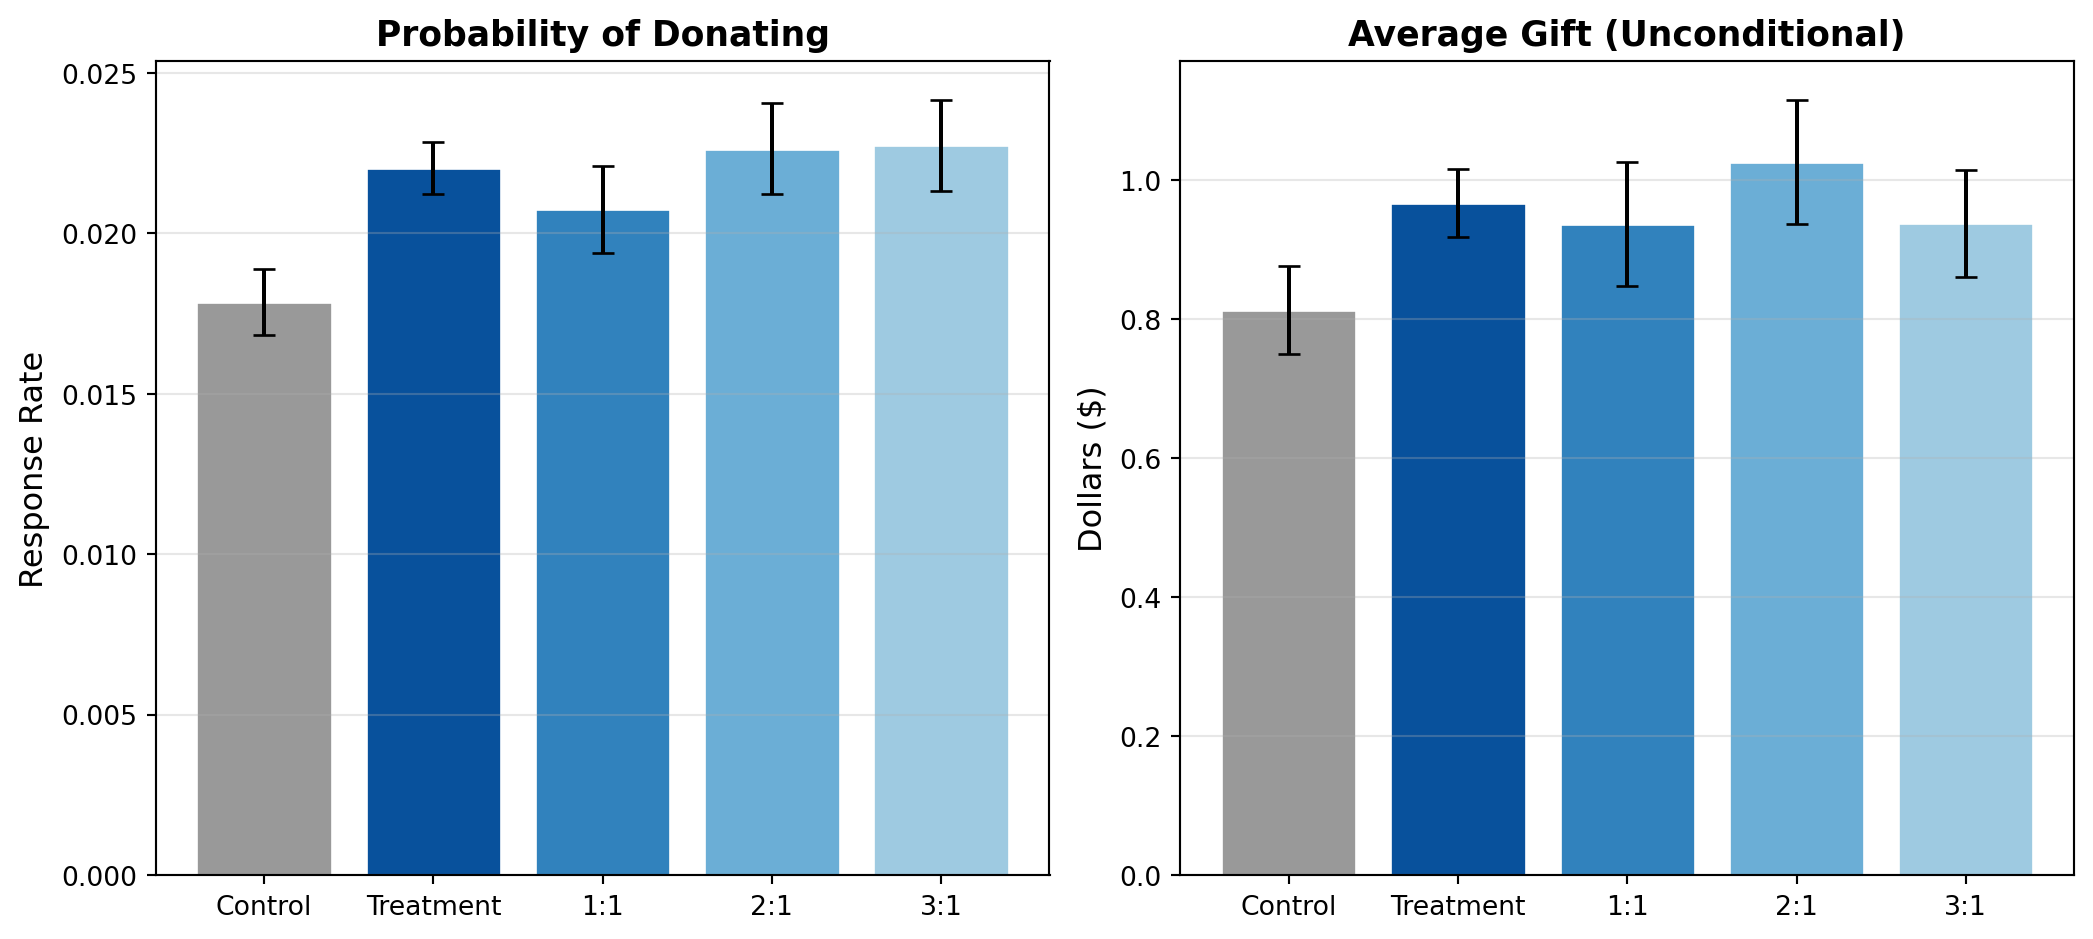
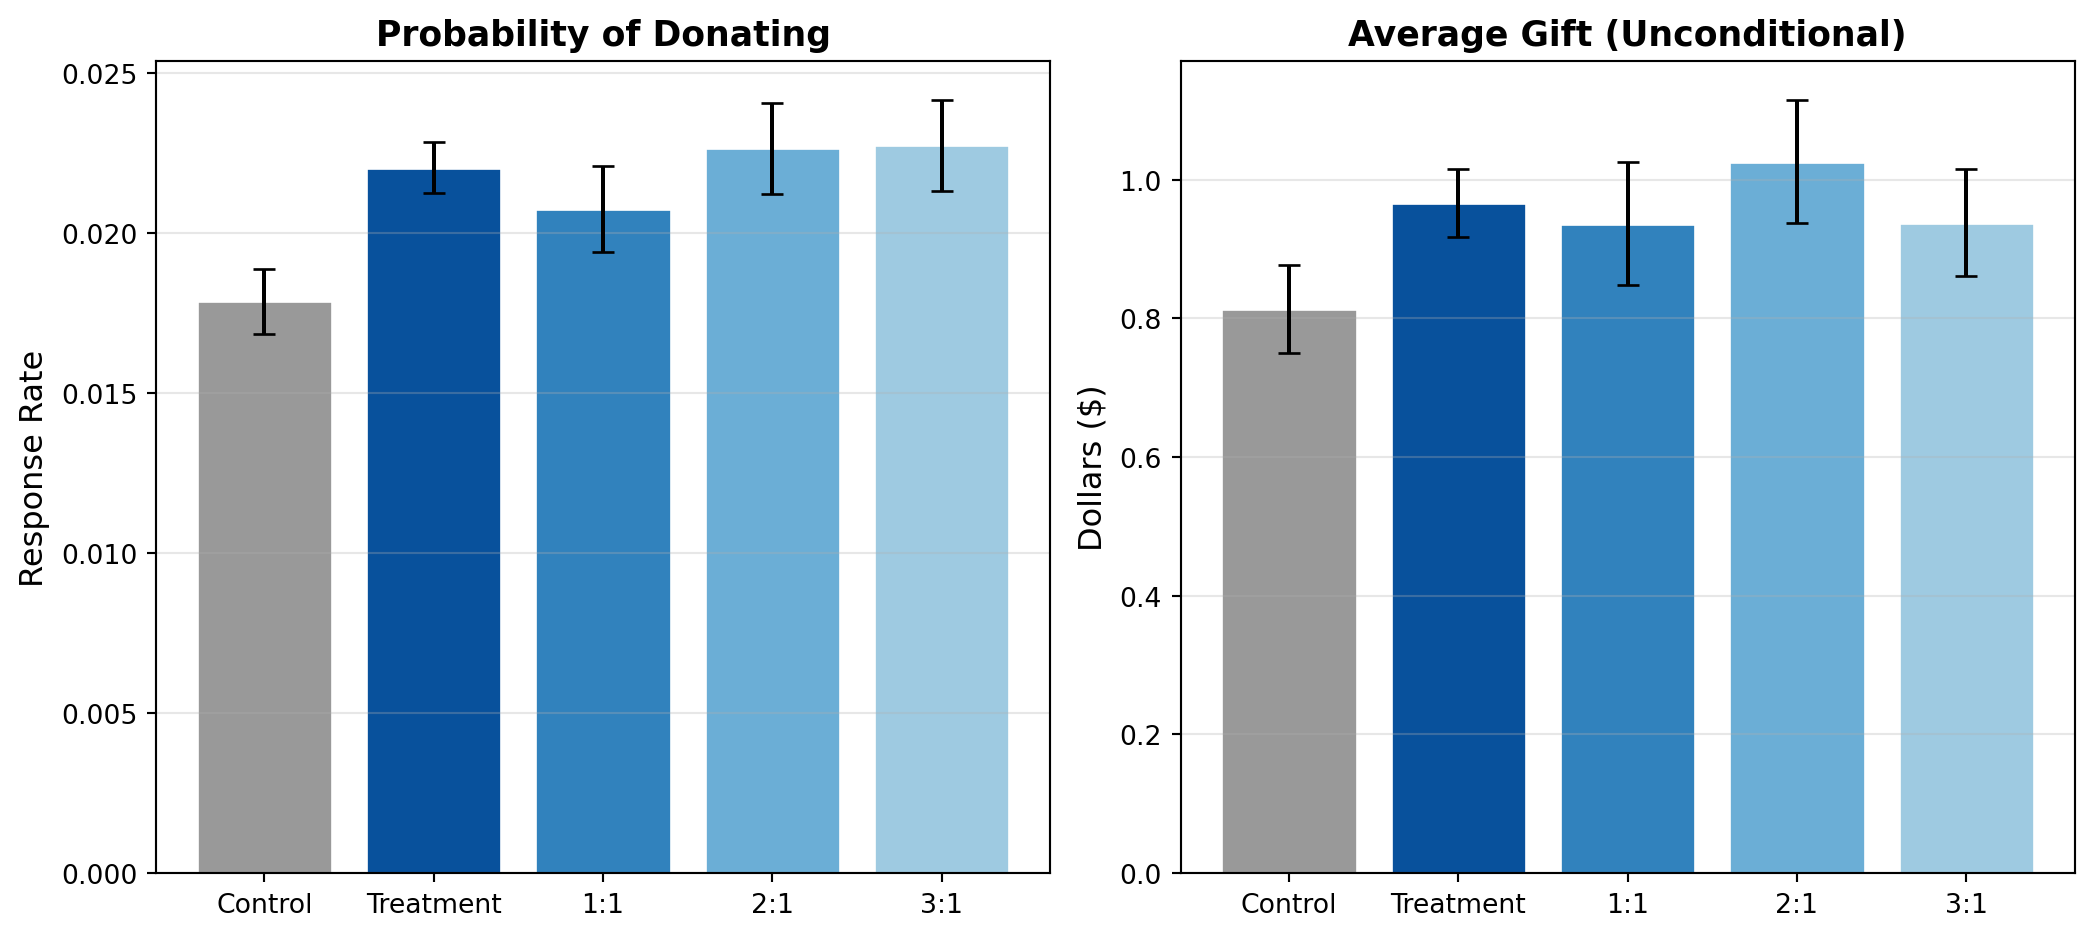
Rename section title to Additional Analysis for clarity

diff --git a/docs/projects/hw2-karlan-list/index.html b/docs/projects/hw2-karlan-list/index.html
@@ -224,7 +224,7 @@ pre > code.sourceCode > span > a:first-child::before { text-decoration: underlin
 <section id="data" class="level3">
 <h3 class="anchored" data-anchor-id="data">Data</h3>
 <p>The dataset contains 50,083 observations, each representing a prior donor who received a solicitation letter.</p>
-<div id="77b6c899" class="cell" data-execution_count="2">
+<div id="9cbc70d1" class="cell" data-execution_count="2">
 <div class="code-copy-outer-scaffold"><div class="sourceCode cell-code" id="cb1"><pre class="sourceCode python code-with-copy"><code class="sourceCode python"><span id="cb1-1"><a href="#cb1-1" aria-hidden="true" tabindex="-1"></a>df <span class="op">=</span> pd.read_stata(<span class="st">"AERtables1-5.dta"</span>)</span>
 <span id="cb1-2"><a href="#cb1-2" aria-hidden="true" tabindex="-1"></a>df <span class="op">=</span> df[df[<span class="st">'treatment'</span>].notna()]</span>
 <span id="cb1-3"><a href="#cb1-3" aria-hidden="true" tabindex="-1"></a></span>
@@ -241,7 +241,7 @@ Control group:      16,687</code></pre>
 <section id="balance-check-table-1" class="level3">
 <h3 class="anchored" data-anchor-id="balance-check-table-1">Balance Check (Table 1)</h3>
 <p>A well-designed randomized experiment should produce treatment and control groups that look similar on observable characteristics. Table 1 in the paper confirms this. I replicate the key rows below. I do not report formal t-tests here, but the descriptive balance is very close to the published table.</p>
-<div id="eba00cf2" class="cell" data-execution_count="3">
+<div id="ce64dc47" class="cell" data-execution_count="3">
 <div class="code-copy-outer-scaffold"><div class="sourceCode cell-code" id="cb3"><pre class="sourceCode python code-with-copy"><code class="sourceCode python"><span id="cb3-1"><a href="#cb3-1" aria-hidden="true" tabindex="-1"></a>balance_vars <span class="op">=</span> {</span>
 <span id="cb3-2"><a href="#cb3-2" aria-hidden="true" tabindex="-1"></a>    <span class="st">'MRM2'</span>: <span class="st">'Months since last donation'</span>,</span>
 <span id="cb3-3"><a href="#cb3-3" aria-hidden="true" tabindex="-1"></a>    <span class="st">'HPA'</span>: <span class="st">'Highest previous contribution'</span>,</span>
@@ -301,9 +301,9 @@ Control group:      16,687</code></pre>
 <th data-quarto-table-cell-role="th">0</th>
 <td>Months since last donation</td>
 <td>13.007</td>
-<td>(12.081)</td>
+<td>(12.080)</td>
 <td>13.012</td>
-<td>(12.086)</td>
+<td>(12.085)</td>
 <td>12.998</td>
 <td>(12.074)</td>
 </tr>
@@ -311,11 +311,11 @@ Control group:      16,687</code></pre>
 <th data-quarto-table-cell-role="th">1</th>
 <td>Highest previous contribution</td>
 <td>59.385</td>
-<td>(71.177)</td>
+<td>(71.181)</td>
 <td>59.597</td>
-<td>(73.052)</td>
+<td>(73.063)</td>
 <td>58.960</td>
-<td>(67.269)</td>
+<td>(67.271)</td>
 </tr>
 <tr class="odd">
 <th data-quarto-table-cell-role="th">2</th>
@@ -341,9 +341,9 @@ Control group:      16,687</code></pre>
 <th data-quarto-table-cell-role="th">4</th>
 <td>Donor activity flag (dormant)</td>
 <td>0.523</td>
-<td>(0.499)</td>
+<td>(0.500)</td>
 <td>0.524</td>
-<td>(0.499)</td>
+<td>(0.500)</td>
 <td>0.523</td>
 <td>(0.499)</td>
 </tr>
@@ -388,7 +388,7 @@ Control group:      16,687</code></pre>
 <section id="experimental-results-table-2a-panel-a" class="level3">
 <h3 class="anchored" data-anchor-id="experimental-results-table-2a-panel-a">Experimental Results (Table 2A, Panel A)</h3>
 <p>Table 2A presents the core experimental results. I compute three key outcome measures across the control group, the full treatment group, and the three match-ratio subgroups:</p>
-<div id="72aac69a" class="cell" data-execution_count="4">
+<div id="32991ec2" class="cell" data-execution_count="4">
 <div class="code-copy-outer-scaffold"><div class="sourceCode cell-code" id="cb4"><pre class="sourceCode python code-with-copy"><code class="sourceCode python"><span id="cb4-1"><a href="#cb4-1" aria-hidden="true" tabindex="-1"></a>groups <span class="op">=</span> {</span>
 <span id="cb4-2"><a href="#cb4-2" aria-hidden="true" tabindex="-1"></a>    <span class="st">'Control'</span>: df[df[<span class="st">'control'</span>] <span class="op">==</span> <span class="dv">1</span>],</span>
 <span id="cb4-3"><a href="#cb4-3" aria-hidden="true" tabindex="-1"></a>    <span class="st">'Treatment'</span>: df[df[<span class="st">'treatment'</span>] <span class="op">==</span> <span class="dv">1</span>],</span>
@@ -486,7 +486,7 @@ Control group:      16,687</code></pre>
 <h3 class="anchored" data-anchor-id="regression-analysis-table-3">Regression Analysis (Table 3)</h3>
 <p>To formally test these patterns, I estimate linear probability models with the binary donation indicator (<code>gave</code>) as the dependent variable. The paper labels these as probit regressions, but the coefficients are consistent with OLS estimates, as noted in the assignment instructions.</p>
 <p>I replicate the main treatment-effect regressions for the full sample and for the 2005 donation-status subsamples using linear probability models. The estimated treatment effects closely match the magnitudes reported in Table 3.</p>
-<div id="f1eaf681" class="cell" data-execution_count="5">
+<div id="8820938c" class="cell" data-execution_count="5">
 <div class="code-copy-outer-scaffold"><div class="sourceCode cell-code" id="cb5"><pre class="sourceCode python code-with-copy"><code class="sourceCode python"><span id="cb5-1"><a href="#cb5-1" aria-hidden="true" tabindex="-1"></a><span class="co"># Column 1: Treatment effect on full sample</span></span>
 <span id="cb5-2"><a href="#cb5-2" aria-hidden="true" tabindex="-1"></a>y <span class="op">=</span> df[<span class="st">'gave'</span>].values</span>
 <span id="cb5-3"><a href="#cb5-3" aria-hidden="true" tabindex="-1"></a>X1 <span class="op">=</span> sm.add_constant(df[[<span class="st">'treatment'</span>]].values)</span>
@@ -502,7 +502,7 @@ Control group:      16,687</code></pre>
 <span id="cb5-13"><a href="#cb5-13" aria-hidden="true" tabindex="-1"></a>X5 <span class="op">=</span> sm.add_constant(not_gave[[<span class="st">'treatment'</span>]].values)</span>
 <span id="cb5-14"><a href="#cb5-14" aria-hidden="true" tabindex="-1"></a>m5 <span class="op">=</span> sm.OLS(not_gave[<span class="st">'gave'</span>].values, X5).fit()</span></code></pre></div><button title="Copy to Clipboard" class="code-copy-button"><i class="bi"></i></button></div>
 </div>
-<div id="c5f72a1a" class="cell" data-execution_count="6">
+<div id="8114e542" class="cell" data-execution_count="6">
 <div class="cell-output cell-output-display" data-execution_count="6">
 <div>
 
@@ -562,11 +562,11 @@ Control group:      16,687</code></pre>
 <section id="visualizing-treatment-effects" class="level3">
 <h3 class="anchored" data-anchor-id="visualizing-treatment-effects">Visualizing Treatment Effects</h3>
 <p>The paper presents all its results in tables. To make the key finding more visually intuitive, I plot the response rates and average gift amounts across the control and treatment subgroups:</p>
-<div id="edc3bf5c" class="cell" data-execution_count="7">
+<div id="25af6f5d" class="cell" data-execution_count="7">
 <div class="cell-output cell-output-display">
 <div class="quarto-figure quarto-figure-center">
 <figure class="figure">
-<p><img src="index_files/figure-html/cell-8-output-1.png" width="1047" height="470" class="figure-img"></p>
+<p><img src="index_files/figure-html/cell-8-output-1.png" width="1047" height="469" class="figure-img"></p>
 <figcaption>Donation Outcomes by Experimental Group</figcaption>
 </figure>
 </div>

diff --git a/docs/projects.html b/docs/projects.html
@@ -206,7 +206,7 @@ window.Quarto = {
 
 <div class="quarto-listing quarto-listing-container-grid" id="listing-listing">
 <div class="list grid quarto-listing-cols-3">
-<div class="g-col-1" data-index="0" data-listing-date-sort="1776236400000" data-listing-file-modified-sort="1776313496036" data-listing-date-modified-sort="NaN" data-listing-reading-time-sort="15" data-listing-word-count-sort="2851">
+<div class="g-col-1" data-index="0" data-listing-date-sort="1776236400000" data-listing-file-modified-sort="1777426144887" data-listing-date-modified-sort="NaN" data-listing-reading-time-sort="15" data-listing-word-count-sort="2851">
 <a href="./projects/hw1-ab-testing/index.html" class="quarto-grid-link">
 <div class="quarto-grid-item card h-100 card-left">
 <p class="card-img-top"><img loading='lazy' src="projects/hw1-ab-testing/index_files/figure-html/cell-5-output-1.png" style="height: 150px;"  class="thumbnail-image card-img"/></p>
@@ -228,7 +228,7 @@ Apr 15, 2026
 </div>
 </div></a>
 </div>
-<div class="g-col-1" data-index="1" data-listing-date-sort="1776841200000" data-listing-file-modified-sort="1776907283694" data-listing-date-modified-sort="NaN" data-listing-reading-time-sort="8" data-listing-word-count-sort="1556">
+<div class="g-col-1" data-index="1" data-listing-date-sort="1776841200000" data-listing-file-modified-sort="1777426272973" data-listing-date-modified-sort="NaN" data-listing-reading-time-sort="8" data-listing-word-count-sort="1556">
 <a href="./projects/hw2-karlan-list/index.html" class="quarto-grid-link">
 <div class="quarto-grid-item card h-100 card-left">
 <p class="card-img-top"><img loading='lazy' src="projects/hw2-karlan-list/index_files/figure-html/cell-8-output-1.png" style="height: 150px;"  class="thumbnail-image card-img"/></p>
@@ -250,7 +250,7 @@ Apr 22, 2026
 </div>
 </div></a>
 </div>
-<div class="g-col-1" data-index="2" data-listing-file-modified-sort="1775256187788">
+<div class="g-col-1" data-index="2" data-listing-file-modified-sort="1777422284092">
 <a href="./projects/project1.html" class="quarto-grid-link">
 <div class="quarto-grid-item card h-100 card-left">
 <div class="listing-item-img-placeholder card-img-top" style="height: 150px;">&nbsp;</div>
